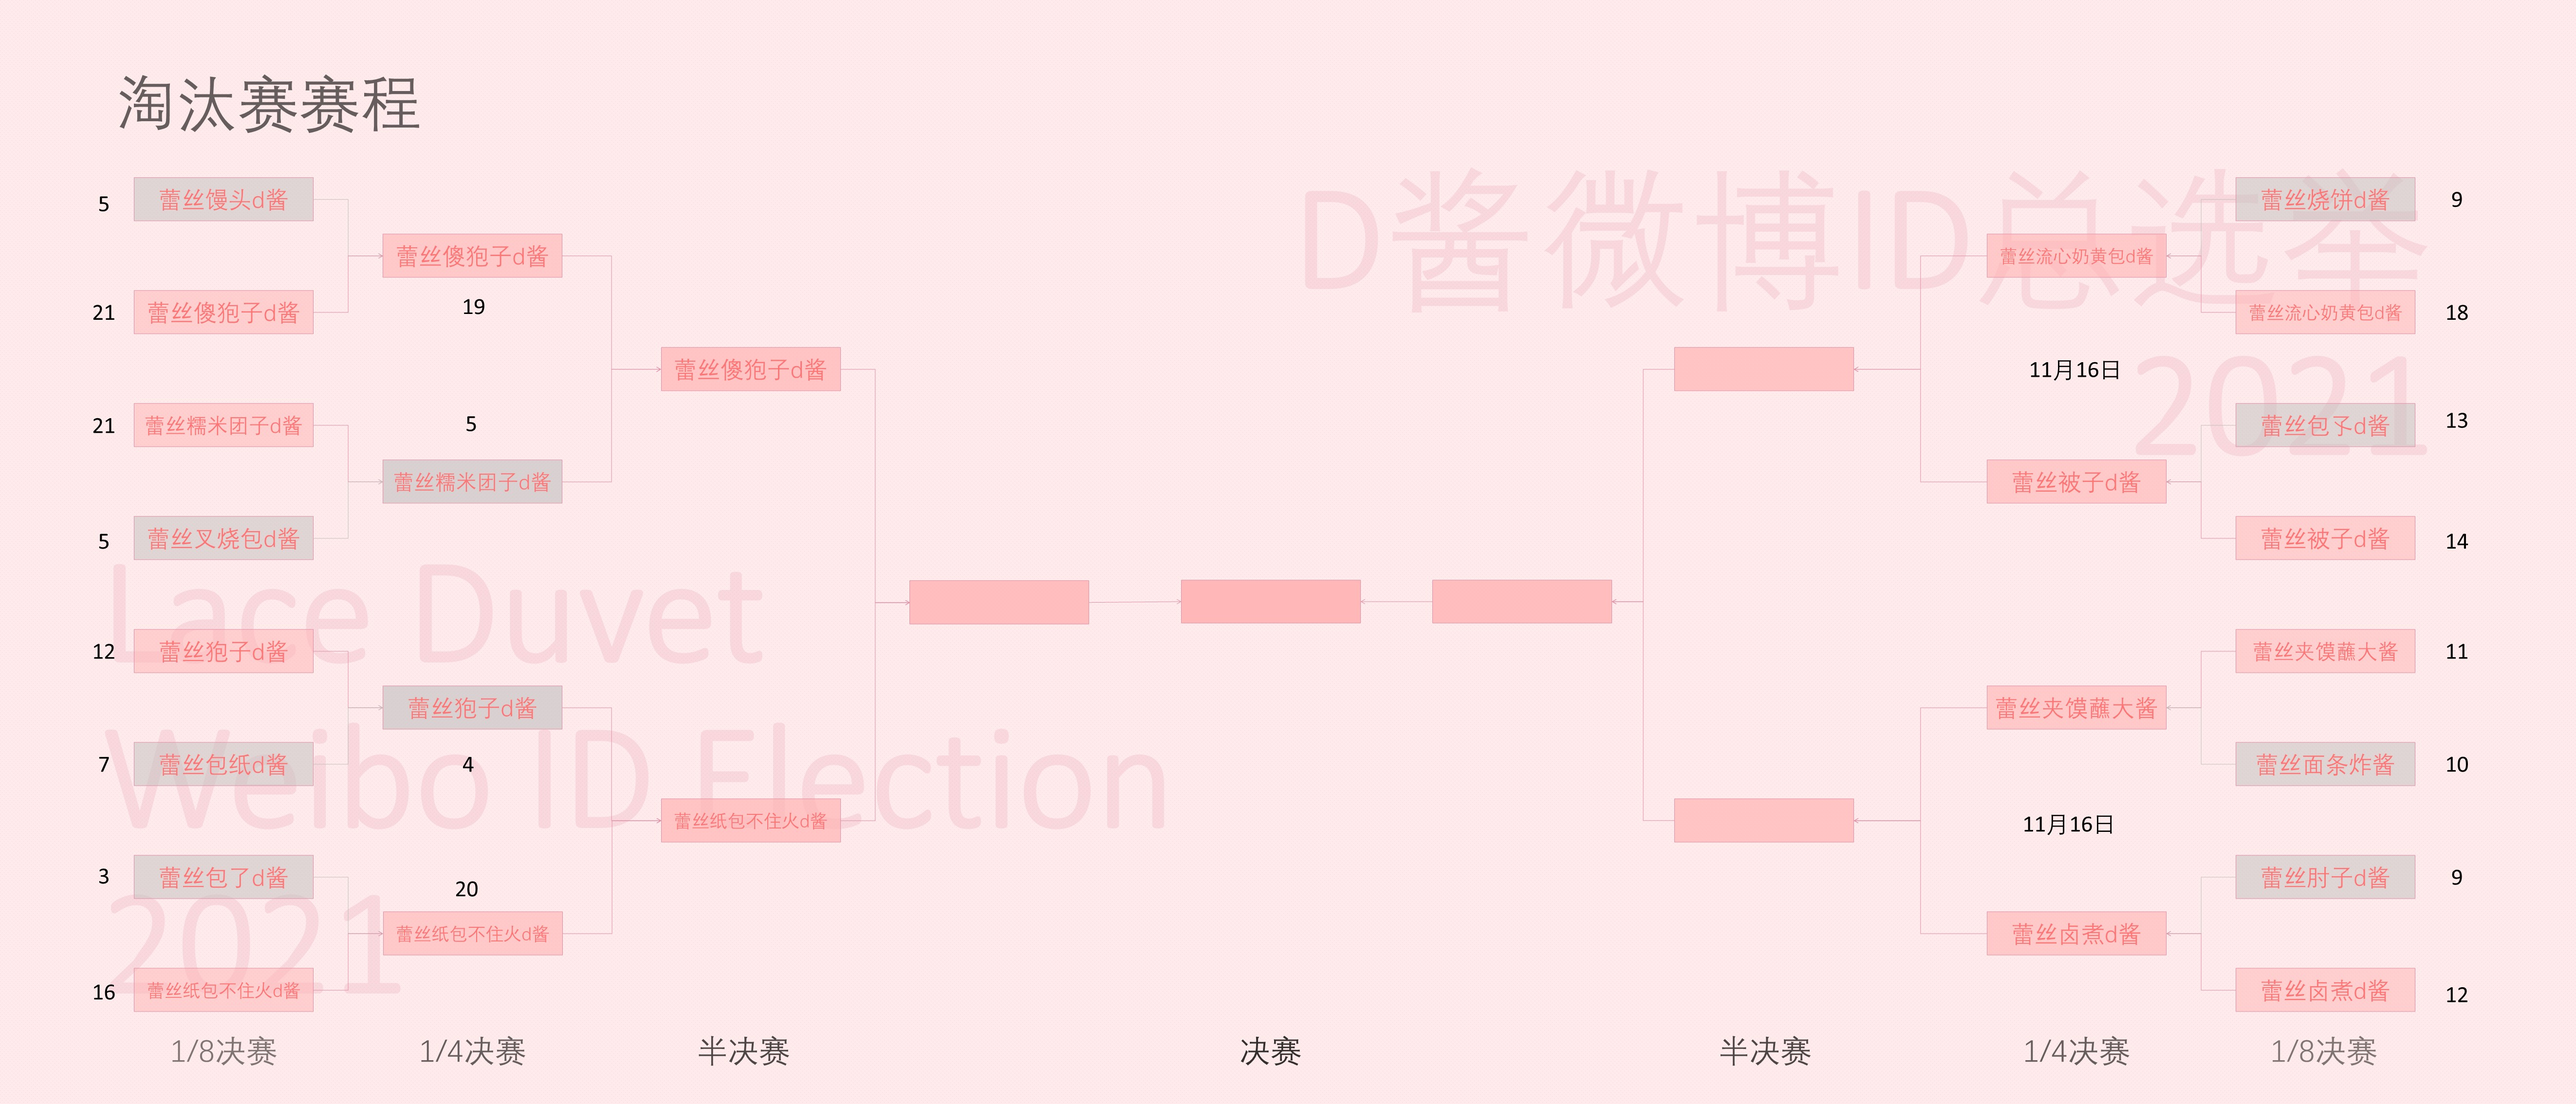
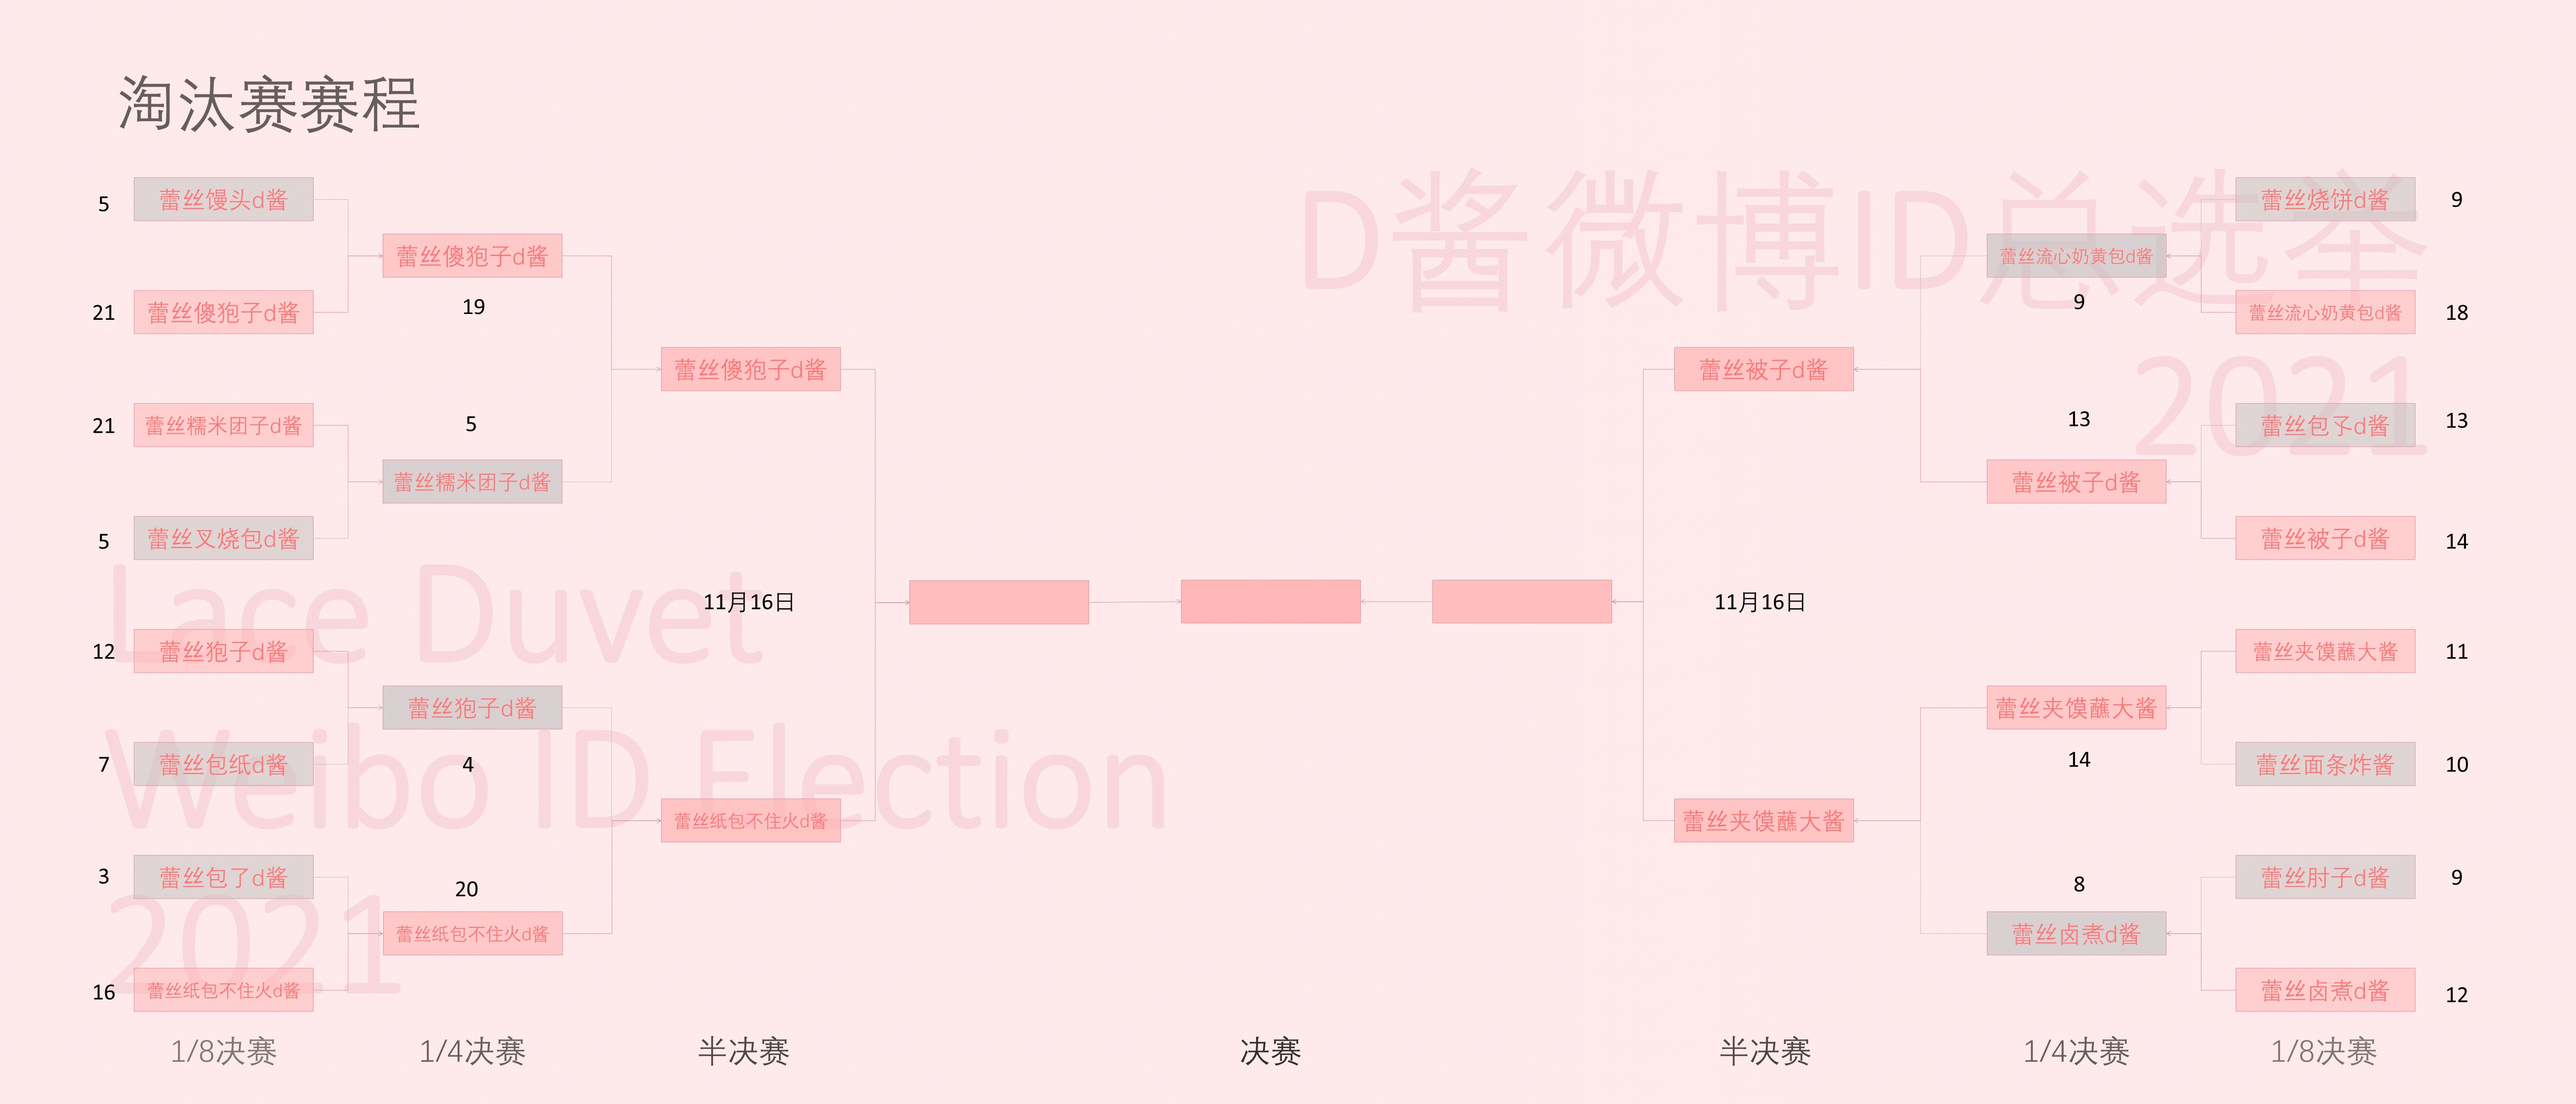
更新半决赛信息

diff --git a/README.md b/README.md
@@ -14,33 +14,24 @@
 
 > <b>今日赛程</b>
 > 
-> 今天是11月15日，正在进行1/4决赛第一场和第二场的比赛，您可以[点击这里](https://tp.wjx.top/vj/t7k90Zd.aspx) 进入投票页面。
+> 今天是11月17日，正在进行半决赛，您可以[点击这里](https://tp.wjx.top/vj/YFvlw6H.aspx) 进入投票页面。
 
 ### 淘汰赛阶段实时赛程
 ![淘汰赛阶段实时赛程](documents/race_profile/淘汰赛.jpg)
 
-### 1/4决赛
-1/8决赛后将有8位选手胜出，我们将按照顺序进行1/4决赛。
+### 半决赛
+1/4决赛后将有4位选手胜出，我们将按照顺序进行半决赛。
 
-11月15日：举行第一场、第二场1/4决赛，
+11月17日：举行第一场、第二场半决赛
 
-第一场：蕾丝傻狍子d酱 vs 蕾丝糯米团子d酱
+第一场：蕾丝傻狍子d酱 vs 蕾丝纸包不住火d酱
 
-第二场：蕾丝狍子d酱 vs 蕾丝纸包不住火d酱
+第二场：蕾丝被子d酱 vs 蕾丝夹馍蘸大酱
 
-每场比赛的胜者晋级半决赛。
+每场比赛的胜者晋级决赛。
 
-[11月15日投票链接](https://tp.wjx.top/vj/t7k90Zd.aspx)
+[半决赛投票链接](https://tp.wjx.top/vj/YFvlw6H.aspx)
 
-11月16日：举行第三场、第四场1/4决赛，
-
-第三场：蕾丝流心奶黄包d酱 vs 蕾丝被子d酱
-
-第四场：蕾丝夹馍蘸大酱 vs 蕾丝卤煮d酱
-
-每场比赛的胜者晋级半决赛。
-
-[11月16日投票链接](https://tp.wjx.top/vj/PijfwMV.aspx)
 ### 测试赛
 10月31日将举行总选举的测试赛，用于最终决定使用何种方式开展投票。
 
@@ -156,14 +147,30 @@
 每场比赛的胜者晋级1/4决赛。
 
 11月12日：如果1/8决赛中出现平局，则比较二者在小组赛中的积分，小组赛积分多者胜出。如果仍然平局，将举行加时赛。
-   
-### 半决赛
-1/4决赛后将有4位选手胜出，我们将按照顺序进行半决赛。
 
-11月17日：举行第一场、第二场半决赛，
-第一场对局双方为第一场、第二场1/4决赛的胜者，
-第二场对局双方为第三场、第四场1/4决赛的胜者，
-每场比赛的胜者晋级决赛。
+### 1/4决赛
+1/8决赛后将有8位选手胜出，我们将按照顺序进行1/4决赛。
+
+11月15日：举行第一场、第二场1/4决赛，
+
+第一场：蕾丝傻狍子d酱 vs 蕾丝糯米团子d酱
+
+第二场：蕾丝狍子d酱 vs 蕾丝纸包不住火d酱
+
+每场比赛的胜者晋级半决赛。
+
+[11月15日投票链接](https://tp.wjx.top/vj/t7k90Zd.aspx)
+
+11月16日：举行第三场、第四场1/4决赛，
+
+第三场：蕾丝流心奶黄包d酱 vs 蕾丝被子d酱
+
+第四场：蕾丝夹馍蘸大酱 vs 蕾丝卤煮d酱
+
+每场比赛的胜者晋级半决赛。
+
+[11月16日投票链接](https://tp.wjx.top/vj/PijfwMV.aspx)
+
 ### 决赛
 半决赛后将有2位选手胜出。
 
